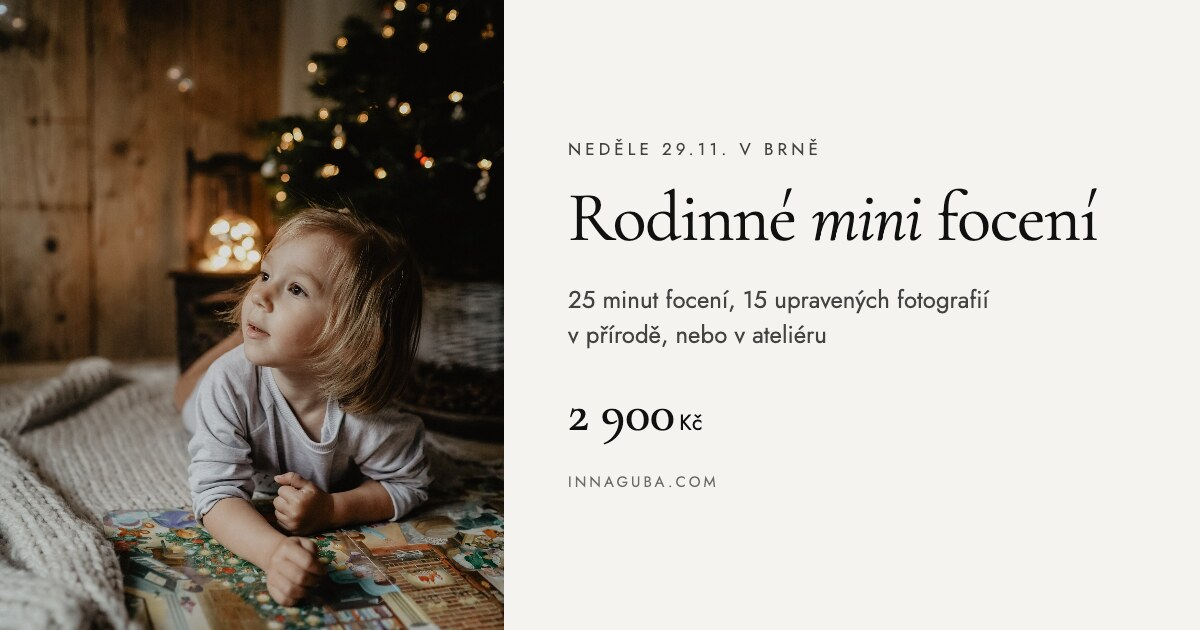
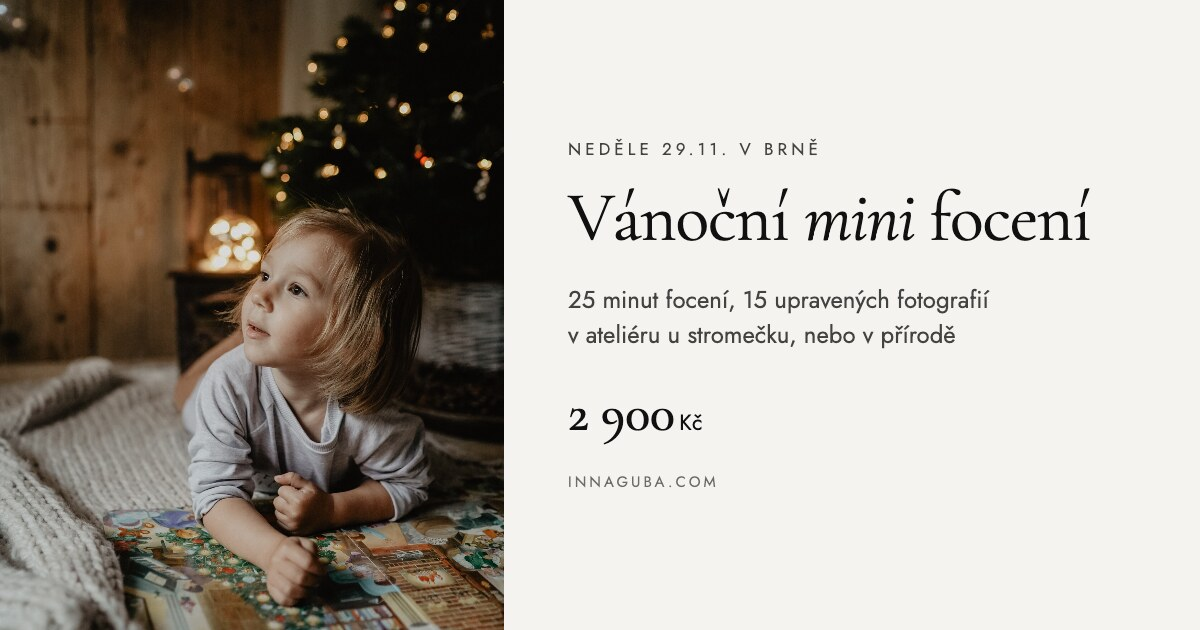
Vánoční mini focení: nový název, ateliér u stromečku jako první volba, nový náhled odkazu

Changed region(s): [[0.4625, 0.3016, 0.925, 0.3921], [0.4933, 0.5127, 0.8017, 0.5429]]

diff --git a/js/script.js b/js/script.js
@@ -229,13 +229,13 @@ document.querySelectorAll('[data-row]').forEach(row => {
     if (params.has('vizitka')) lines.push('Mám slevu 10 % z vizitky.');
     // from the mini-focení offer: the chosen time goes into Kdy, the place into Kde
     if (params.has('mini')) {
-      if (select) select.value = 'Mini focení 29. 11.';
+      if (select) select.value = 'Vánoční mini focení 29. 11.';
       const termin = form.querySelector('[name="termin"]');
       const cas = params.get('cas');
       if (termin) termin.add(new Option(cas ? `neděle 29. 11. v ${cas}` : 'neděle 29. 11.', cas ? `29. 11. v ${cas}` : '29. 11.', true, true), 1);
       const misto = form.querySelector('[name="misto"]');
       if (misto && [...misto.options].some(o => o.value === params.get('misto'))) misto.value = params.get('misto');
-      lines.push(cas ? `Chtěli bychom si rezervovat mini focení v neděli 29. 11. v ${cas}.` : 'Chtěli bychom si rezervovat mini focení v neděli 29. 11.');
+      lines.push(cas ? `Chtěli bychom si rezervovat vánoční mini focení v neděli 29. 11. v ${cas}.` : 'Chtěli bychom si rezervovat vánoční mini focení v neděli 29. 11.');
     }
     const zprava = form.querySelector('[name="zprava"]');
     if (lines.length && zprava && !zprava.value) zprava.value = lines.join(' ') + ' ';
@@ -973,19 +973,19 @@ document.querySelectorAll('[data-row]').forEach(row => {
     <form class="mini-body" method="dialog" tabindex="-1" autofocus>
       <button class="mini-close" value="later" aria-label="Zavřít nabídku">×</button>
       <p class="mini-kicker">Neděle 29.11. v&nbsp;Brně</p>
-      <h2 id="mini-title">Rodinné <em>mini</em> focení</h2>
-      <p class="mini-lead">Krátké, přirozené a&nbsp;bez stresu. Pro chvíle, kdy si chcete obnovit rodinné fotky nebo dát babičkám krásný dárek, ale&nbsp;na velké focení teď není čas.</p>
+      <h2 id="mini-title">Vánoční <em>mini</em> focení</h2>
+      <p class="mini-lead">Krátké, přirozené a&nbsp;bez stresu. Rodinné fotky, které dáte babičkám pod stromeček nebo pošlete v&nbsp;přání, i&nbsp;když na velké focení teď není čas.</p>
       <dl class="mini-facts">
         <div><dt>Rozsah</dt><dd>25 minut focení</dd></div>
         <div><dt>V ceně</dt><dd>15 upravených fotografií, každá barevně i&nbsp;černobíle</dd></div>
-        <div><dt>Místo</dt><dd>v&nbsp;přírodě, nebo v&nbsp;ateliéru v&nbsp;Brně</dd></div>
+        <div><dt>Místo</dt><dd>v&nbsp;ateliéru u&nbsp;stromečku, nebo v&nbsp;přírodě</dd></div>
         <div class="mini-price"><dt>Cena</dt><dd>2 900 <span>Kč</span></dd></div>
       </dl>
       ${free.length ? `
       <fieldset class="mini-pick"><legend>Vyberte si čas</legend><div class="mini-chips" style="--n:${MINI.slots.length}">${slotChips}</div></fieldset>
       <fieldset class="mini-pick"><legend>Kde budeme fotit?</legend><div class="mini-chips">
+        <label><input type="radio" name="mini-misto" value="v ateliéru"><span>U stromečku v ateliéru</span></label>
         <label><input type="radio" name="mini-misto" value="venku v přírodě"><span>V přírodě</span></label>
-        <label><input type="radio" name="mini-misto" value="v ateliéru"><span>V ateliéru</span></label>
       </div></fieldset>
       <div class="mini-actions">
         <a class="about-cta-btn mini-go" href="/kontakt.html?mini=1#kontakt">Rezervovat termín</a>
@@ -1000,12 +1000,12 @@ document.querySelectorAll('[data-row]').forEach(row => {
   // its own × hides it for the rest of the visit
   const tab = document.createElement('aside');
   tab.className = 'mini-tab';
-  tab.setAttribute('aria-label', 'Rodinné mini focení 29. 11.');
+  tab.setAttribute('aria-label', 'Vánoční mini focení 29. 11.');
   tab.hidden = true;
   tab.innerHTML = `
     <button type="button" class="mini-tab-open">
       <img src="/images/mini-foceni/${MINI.photos[0][0]}-600.webp?v=2" alt="" width="48" height="60">
-      <span><small>Neděle 29.11.</small><b>Rodinné <em>mini</em> focení</b></span>
+      <span><small>Neděle 29.11.</small><b>Vánoční <em>mini</em> focení</b></span>
       <svg aria-hidden="true" width="18" height="18" viewBox="0 0 24 24" fill="none" stroke="currentColor" stroke-width="1.4"><path d="M5 12h14M13 6l6 6-6 6"/></svg>
     </button>
     <button type="button" class="mini-tab-x" aria-label="Skrýt">×</button>`;

diff --git a/mini-foceni/index.html b/mini-foceni/index.html
@@ -3,27 +3,27 @@
 <head>
 <meta charset="UTF-8">
 <meta name="viewport" content="width=device-width, initial-scale=1.0">
-<title>Rodinné mini focení 29.11. v Brně | Inna Guba</title>
-<meta name="description" content="Neděle 29.11. v Brně: 25 minut focení v přírodě nebo v ateliéru, 15 upravených fotografií barevně i černobíle, 2 900 Kč.">
+<title>Vánoční mini focení 29.11. v Brně | Inna Guba</title>
+<meta name="description" content="Neděle 29.11. v Brně: 25 minut focení v ateliéru u stromečku, nebo v přírodě, 15 upravených fotografií barevně i černobíle, 2 900 Kč.">
 <meta name="robots" content="noindex, follow">
 <link rel="canonical" href="https://innaguba.com/">
 <meta property="og:type" content="website">
 <meta property="og:site_name" content="Inna Guba">
 <meta property="og:locale" content="cs_CZ">
-<meta property="og:title" content="Rodinné mini focení 29.11. v Brně">
-<meta property="og:description" content="25 minut focení v přírodě nebo v ateliéru, 15 upravených fotografií barevně i černobíle. 2 900 Kč.">
+<meta property="og:title" content="Vánoční mini focení 29.11. v Brně">
+<meta property="og:description" content="25 minut focení v ateliéru u stromečku, nebo v přírodě, 15 upravených fotografií barevně i černobíle. 2 900 Kč.">
 <meta property="og:url" content="https://innaguba.com/mini-foceni/">
 <meta property="og:image" content="https://innaguba.com/images/og/og-mini-foceni.jpg">
 <meta property="og:image:width" content="1200">
 <meta property="og:image:height" content="630">
 <meta name="twitter:card" content="summary_large_image">
-<meta name="twitter:title" content="Rodinné mini focení 29.11. v Brně">
+<meta name="twitter:title" content="Vánoční mini focení 29.11. v Brně">
 <meta name="twitter:image" content="https://innaguba.com/images/og/og-mini-foceni.jpg">
 <!-- a link for sharing: social networks read the preview above, people go straight to the offer -->
 <meta http-equiv="refresh" content="0; url=/?mini">
 <script>location.replace('/?mini');</script>
 </head>
 <body style="background:#F5F3EF;font-family:sans-serif;padding:40px">
-<p><a href="/?mini">Rodinné mini focení 29.11. v Brně</a></p>
+<p><a href="/?mini">Vánoční mini focení 29.11. v Brně</a></p>
 </body>
 </html>

diff --git a/kontakt.html b/kontakt.html
@@ -118,7 +118,7 @@
         <label for="cf-sluzba">O&nbsp;co máte zájem?</label>
         <select id="cf-sluzba" name="sluzba">
           <option value="" selected disabled>Vyberte možnost</option>
-          <option value="Mini focení 29. 11.">Mini focení 29.&nbsp;11.</option>
+          <option value="Vánoční mini focení 29. 11.">Vánoční mini focení 29.&nbsp;11.</option>
           <option value="Rodinné focení">Rodinné focení</option>
           <option value="Focení a video">Focení a&nbsp;video</option>
           <option value="Dětský portrét">Dětský portrét</option>
@@ -233,7 +233,7 @@
   </div>
 </div>
 
-<script src="js/script.js?v=176"></script>
+<script src="js/script.js?v=177"></script>
 
 </body>
 </html>

diff --git a/domu-draft.html b/domu-draft.html
@@ -68,7 +68,7 @@
   <p class="fork-note">Jedna značka. Jedna kreativní osobnost. Dvě oblasti tvorby.</p>
 </section>
 
-<script src="js/script.js?v=176" defer></script>
+<script src="js/script.js?v=177" defer></script>
 
 </body>
 </html>

diff --git a/web-vizualni-tvorba.html b/web-vizualni-tvorba.html
@@ -224,7 +224,7 @@
   </div>
 </section>
 
-<script src="js/script.js?v=176" defer></script>
+<script src="js/script.js?v=177" defer></script>
 
 </body>
 </html>

diff --git a/index.html b/index.html
@@ -439,7 +439,7 @@
   </div>
 </div>
 
-<script src="js/script.js?v=176" defer></script>
+<script src="js/script.js?v=177" defer></script>
 
 </body>
 </html>

diff --git a/album-k-vytisteni.html b/album-k-vytisteni.html
@@ -278,7 +278,7 @@
   </div>
 </div>
 
-<script src="js/script.js?v=176"></script>
+<script src="js/script.js?v=177"></script>
 
 </body>
 </html>

diff --git a/cenik.html b/cenik.html
@@ -259,7 +259,7 @@
   </div>
 </div>
 
-<script src="js/script.js?v=176"></script>
+<script src="js/script.js?v=177"></script>
 
 </body>
 </html>

diff --git a/galerie-detsky-portret.html b/galerie-detsky-portret.html
@@ -193,7 +193,7 @@
   </div>
 </div>
 
-<script src="js/script.js?v=176"></script>
+<script src="js/script.js?v=177"></script>
 
 </body>
 </html>

diff --git a/galerie-rodinna-fotografie.html b/galerie-rodinna-fotografie.html
@@ -361,7 +361,7 @@
   </div>
 </div>
 
-<script src="js/script.js?v=176"></script>
+<script src="js/script.js?v=177"></script>
 
 </body>
 </html>

diff --git a/galerie-video-pribeh.html b/galerie-video-pribeh.html
@@ -242,7 +242,7 @@
   </div>
 </div>
 
-<script src="js/script.js?v=176"></script>
+<script src="js/script.js?v=177"></script>
 
 </body>
 </html>

diff --git a/newborn-foceni-brno.html b/newborn-foceni-brno.html
@@ -277,7 +277,7 @@
   </div>
 </div>
 
-<script src="js/script.js?v=176"></script>
+<script src="js/script.js?v=177"></script>
 
 </body>
 </html>
